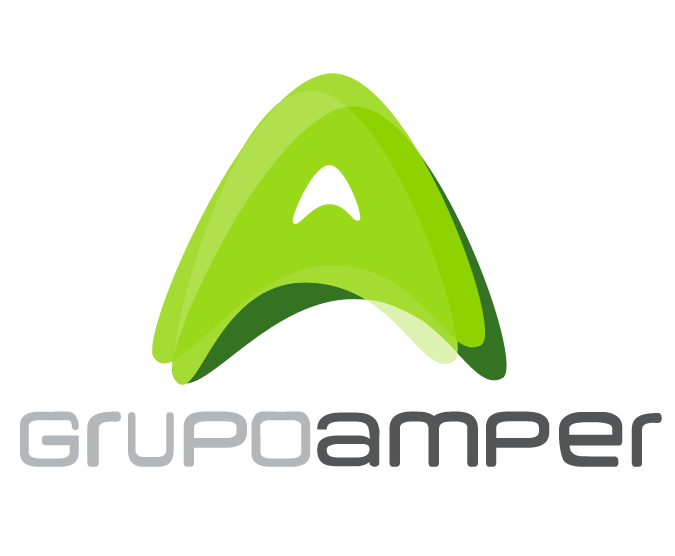
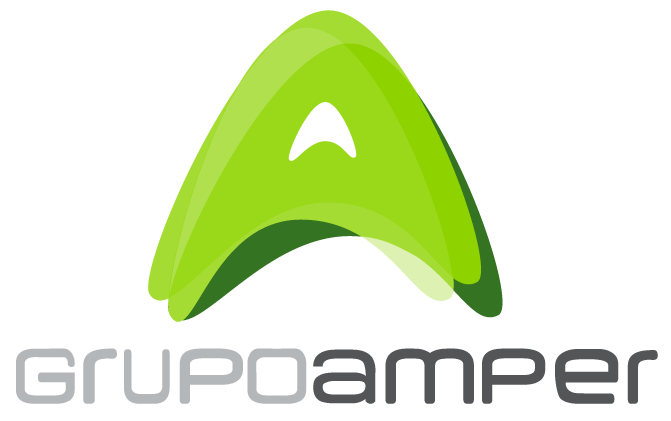
Retoques estéticos en las páginas de MTTO
git-svn-id: http://10.34.58.18/svn/svn_repository/Ulises5000I/branches/agl-dev/ulises-man@10946 b1d50d5f-df8f-9249-af92-6a0d583c2fd7

Changed region(s): [[0.0, 0.4632, 0.9836, 0.9572], [0.2385, 0.0, 0.7154, 0.4941]]

diff --git a/U5kManServer/appweb/app/views/Uv5kiman-config.html b/U5kManServer/appweb/app/views/Uv5kiman-config.html
@@ -24,12 +24,13 @@
       <div class="text-left">
         <table class="table table-condensed table-bordered">
           <tr>
-            <td translate class=" text-primary col-xs-3"><label class="form-control-static">CFG_ETQ_02</label></td>
+            <td class=" text-primary col-xs-3"><label class="form-control-static" translate>CFG_ETQ_02</label></td>
             <td class="text-success col-xs-6">{{ctrl.options.version}}</td>
-              <td class="text-right"><button type="button" class="btn btn-default" ng-click="ctrl.VersionDetailShow()" translate>Detalle</button></td>
+            <td class="text-right"><button type="button" class="btn btn-default" ng-click="ctrl.VersionDetailShow()" translate>Detalle</button></td>
           </tr>
           <tr >
-            <td translate class="text-primary col-xs-3">CFG_ETQ_03</td><td class="text-success col-xs-6">{{ctrl.options.bdt}}</td><td></td>
+            <td class="text-primary col-xs-3"><label class="form-control-static" translate>CFG_ETQ_03</label></td>
+            <td class="text-success col-xs-6">{{ctrl.options.bdt}}</td><td></td>
           </tr>
         </table>
       </div>
@@ -181,9 +182,9 @@
       <h1><strong translate>Configuracion de Servicio SACTA</strong></h1>
       <form name="sacta_form" class="text-left text-primary" ng-show="ctrl.sacta_cfg!=null">
           <div class="row">
-              <div class="col-md-3" translate>Tick Presencia</div>
+              <div class="col-md-3"><label class="form-control-static" translate>Tick Presencia</label></div>
               <div class="col-md-3"><input class="form-control input-sm text-success" type="text" ng-model="ctrl.sacta_cfg.TickPresencia" ng-disabled="!ctrl.optionAllowed()" nu-number min="1000" max="9999" /></div>
-              <div class="col-md-3" translate>Timeout Presencia</div>
+              <div class="col-md-3"><label class="form-control-static" translate>Timeout Presencia</label></div>
               <div class="col-md-3"><input class="form-control input-sm text-success" type="text" ng-model="ctrl.sacta_cfg.TimeoutPresencia" ng-disabled="!ctrl.optionAllowed()" nu-number min="15000" max="60000" /></div>
           </div>
           <div class="row sacta-cab bg-primary">
@@ -191,33 +192,33 @@
               <div class="col-md-7" translate>SACTA</div>
           </div>
           <div class="row">
-              <div class="col-md-2" translate>Dominio</div>
+              <div class="col-md-2"><label class="form-control-static" translate>Dominio</label></div>
               <div class="col-md-3"><input class="form-control input-sm text-success" type="text" ng-model="ctrl.sacta_cfg.scv.Domain" ng-disabled="!ctrl.optionAllowed()" nu-number min="1" max="9999" /></div>
-              <div class="col-md-2" translate>Dominio</div>
+              <div class="col-md-2"><label class="form-control-static" translate>Dominio</label></div>
               <div class="col-md-3"><input class="form-control input-sm text-success" type="text" ng-model="ctrl.sacta_cfg.sacta.Domain" ng-disabled="!ctrl.optionAllowed()" nu-number min="1" max="9999" /></div>
           </div>
           <div class="row">
-              <div class="col-md-2" translate>Centro</div>
+              <div class="col-md-2"><label class="form-control-static" translate>Centro</label></div>
               <div class="col-md-3"><input class="form-control input-sm text-success" type="text" ng-model="ctrl.sacta_cfg.scv.Center" ng-disabled="!ctrl.optionAllowed()" nu-number min="1" max="9999" /></div>
-              <div class="col-md-2" translate>Centro</div>
+              <div class="col-md-2"><label class="form-control-static" translate>Centro</label></div>
               <div class="col-md-3"><input class="form-control input-sm text-success" type="text" ng-model="ctrl.sacta_cfg.sacta.Center" ng-disabled="!ctrl.optionAllowed()" nu-number min="1" max="9999" /></div>
           </div>
           <div class="row">
-              <div class="col-md-2" translate>Usuario</div>
+              <div class="col-md-2"><label class="form-control-static" translate>Usuario</label></div>
               <div class="col-md-3"><input class="form-control input-sm text-success" type="text" ng-model="ctrl.sacta_cfg.scv.User" ng-disabled="!ctrl.optionAllowed()" nu-number min="1" max="65536" /></div>
-              <div class="col-md-2" translate>Grupo</div>
+              <div class="col-md-2"><label class="form-control-static" translate>Grupo</label></div>
               <div class="col-md-3"><input class="form-control input-sm text-success" type="text" ng-model="ctrl.sacta_cfg.sacta.GrpUser" ng-disabled="!ctrl.optionAllowed()" nu-number min="1" max="65536" /></div>
           </div>
           <div class="row">
-              <div class="col-md-2" translate>Ignorar Sectores</div>
+              <div class="col-md-2"><label class="form-control-static" translate>Ignorar Sectores</label></div>
               <div class="col-md-3"><input class="form-control input-sm text-success" type="text" ng-model="ctrl.sacta_cfg.scv.Ignore" ng-disabled="!ctrl.optionAllowed()" nu-numberlist min="1" max="9999"/></div>
-              <div class="col-md-2" translate>SPSI</div>
+              <div class="col-md-2"><label class="form-control-static" translate>SPSI</label></div>
               <div class="col-md-5"><input class="form-control input-sm text-success" type="text" ng-model="ctrl.spsi_users" ng-disabled="!ctrl.optionAllowed()" nu-numberlist min="1" max="65536"/></div>
           </div>
           <div class="row">
               <div class="col-md-2"></div>
               <div class="col-md-3"></div>
-              <div class="col-md-2" translate>SPV</div>
+              <div class="col-md-2"><label class="form-control-static" translate>SPV</label></div>
               <div class="col-md-5"><input class="form-control input-sm text-success" type="text" ng-model="ctrl.spv_users" ng-disabled="!ctrl.optionAllowed()" nu-numberlist min="1" max="65536"/></div>
           </div>
           <div class="row sacta-cab2 bg-info">
@@ -229,27 +230,27 @@
               <div class="col-md-2"></div>
           </div>
           <div class="row">
-              <div class="col-md-2" translate>Puerto</div>
+              <div class="col-md-2"><label class="form-control-static" translate>Puerto</label></div>
               <div class="col-md-3"><input class="form-control input-sm text-success" type="text" ng-model="ctrl.sacta_cfg.scv.udpport" ng-disabled="!ctrl.optionAllowed()" nu-number min="10000" max="20000" /></div>
-              <div class="col-md-2" translate>Puerto</div>
+              <div class="col-md-2"><label class="form-control-static" translate>Puerto</label></div>
               <div class="col-md-2"><input class="form-control input-sm text-success" type="text" ng-model="ctrl.sacta_cfg.sacta.lan1.udpport" ng-disabled="!ctrl.optionAllowed()" nu-number min="10000" max="20000"/></div>
 <!--              <div class="col-md-1">Puerto</div>
               <div class="col-md-2"><input class="form-control input-sm text-success" type="text" ng-model="ctrl.sacta_cfg.sacta.lan2.udpport" nu-number min="10000" max="20000"/></div>-->
           </div>
           <div class="row">
-              <div class="col-md-2" translate>Interfaz</div>
+              <div class="col-md-2"><label class="form-control-static" translate>Interfaz</label></div>
               <div class="col-md-3"><input class="form-control input-sm text-success" type="text" ng-model="ctrl.sacta_cfg.scv.Interfaz" ng-disabled="!ctrl.optionAllowed()" nu-ipadd/></div>
-              <div class="col-md-2" translate>Unicast</div>
+              <div class="col-md-2"><label class="form-control-static" translate>Unicast</label></div>
               <div class="col-md-2"><input class="form-control input-sm text-success" type="text" ng-model="ctrl.sacta_cfg.sacta.lan1.ipmask" ng-disabled="!ctrl.optionAllowed()" nu-ipadd/></div>
-              <div class="col-md-1" translate>Unicast</div>
+              <div class="col-md-1"><label class="form-control-static" translate>Unicast</label></div>
               <div class="col-md-2"><input class="form-control input-sm text-success" type="text" ng-model="ctrl.sacta_cfg.sacta.lan2.ipmask" ng-disabled="!ctrl.optionAllowed()" nu-ipadd/></div>
           </div>
           <div class="row">
               <div class="col-md-2"></div>
               <div class="col-md-3"></div>
-              <div class="col-md-2" translate>Multicast</div>
+              <div class="col-md-2"><label class="form-control-static" translate>Multicast</label></div>
               <div class="col-md-2"><input class="form-control input-sm text-success" type="text" ng-model="ctrl.sacta_cfg.sacta.lan1.mcast" ng-disabled="!ctrl.optionAllowed()" nu-ipadd/></div>
-              <div class="col-md-1" translate>Multicast</div>
+              <div class="col-md-1"><label class="form-control-static" translate>Multicast</label></div>
               <div class="col-md-2"><input class="form-control input-sm text-success" type="text" ng-model="ctrl.sacta_cfg.sacta.lan2.mcast" ng-disabled="!ctrl.optionAllowed()" nu-ipadd/></div>
           </div>
           <div class="row text-right ctrl">  

diff --git a/U5kManServer/appweb/index.html b/U5kManServer/appweb/index.html
@@ -19,10 +19,10 @@
         <div data-ng-click="ctrl.global_click()">
             <header id="cabecera">
                 <div id="_contSupIzq">
-                    <div id="_logo" width="90%">
-                        <!-- <img src="./images/nucleo-df-new.jpg" /> -->
+                    <img src="./images/corporativo-a.png" height="95%" />
+                    <!--<div id="_logo" width="90%">
                         <img src="./images/corporativo-a.png" height="85%" />
-                    </div>
+                    </div>-->
                 </div>
                 <div id="_tit_ppal">
                     <p translate>INDEX_TITULO</p>
